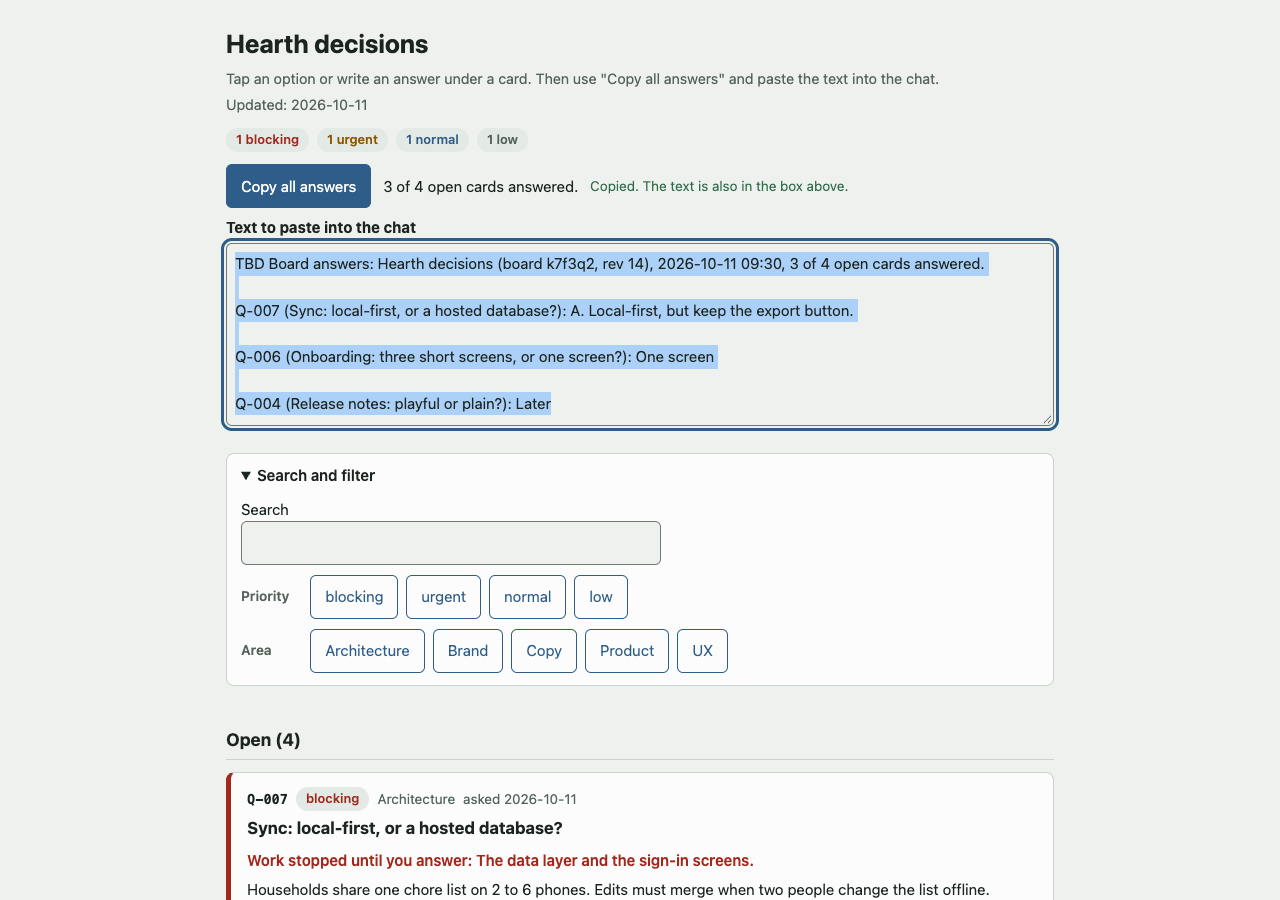
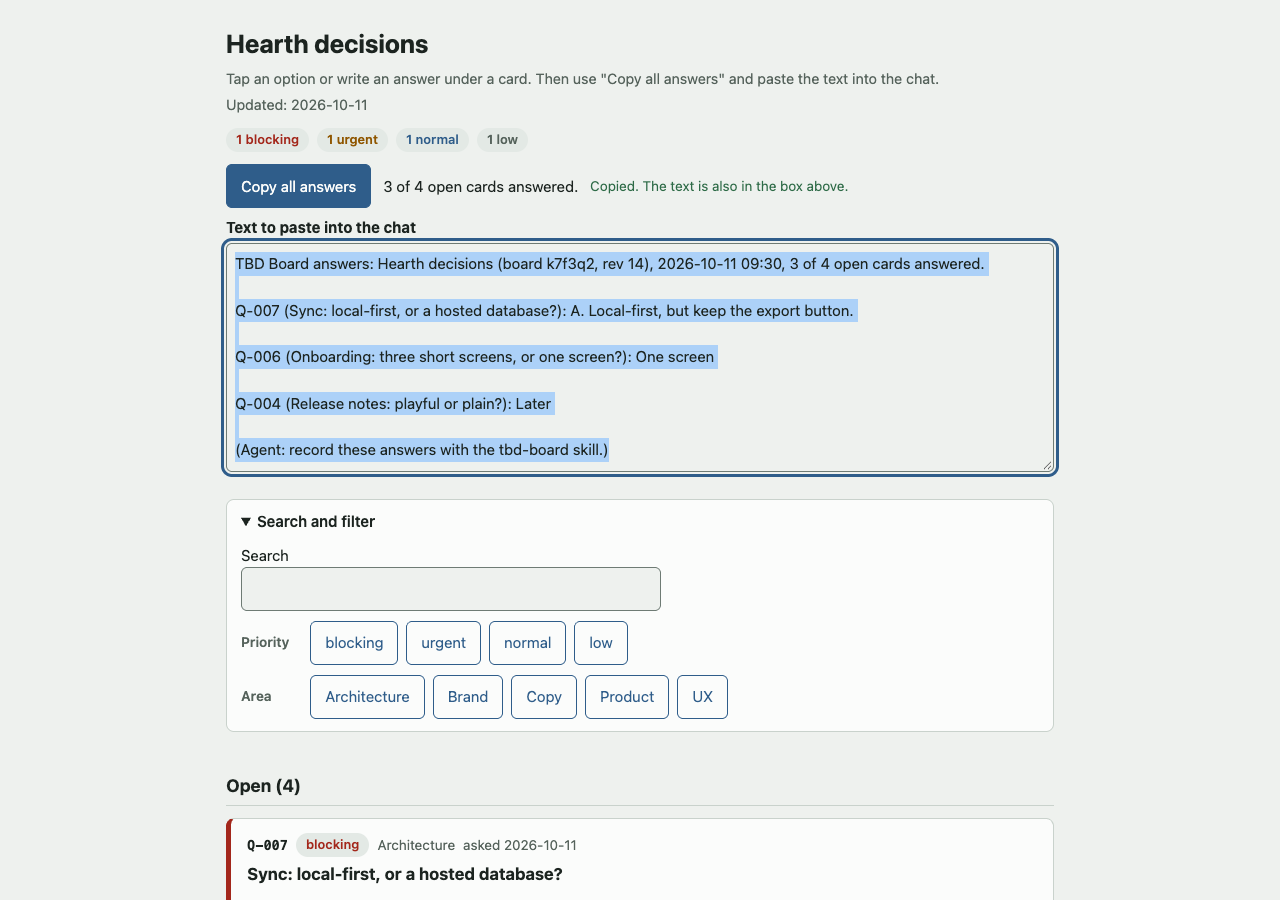
End the answer block with a line that names the skill
In a new Claude Code session, Haiku did not load the skill for a pasted
answer block and recorded nothing. With a closing line that names the
tbd-board skill, it recorded the answer and reported an unknown card ID.

- The board page adds "(Agent: record these answers with the tbd-board
  skill.)" as the last paragraph of each copied block.
- SKILL.md: write --reason only with a reason that the user gave.
- Record the Claude Code install tests (setup and paste) in the docs.

Changed region(s): [[0.1562, 0.4667, 0.8438, 0.7778], [0.1562, 0.8089, 0.7812, 0.9956]]

diff --git a/examples/hearth/board.html b/examples/hearth/board.html
@@ -420,12 +420,14 @@
       navigator.clipboard.writeText(t).then(() => { statusEl.textContent = done; }, () => {});
     }
   }
+  const AGENT_LINE = "(Agent: record these answers with the tbd-board skill.)";
   function copyAnswers(from, statusEl) {
     const d = new Date(), p = (n) => String(n).padStart(2, "0");
     const stamp = `${d.getFullYear()}-${p(d.getMonth() + 1)}-${p(d.getDate())} ${p(d.getHours())}:${p(d.getMinutes())}`;
     const given = from.filter(answerOf);
     const head = `TBD Board answers: ${title} (board ${boardId}, rev ${revision}), ${stamp}, ${answeredSentence()}`;
-    copyText(given.length ? [head, ...given.map((e) => `${e.q.id} (${e.q.title}): ${answerOf(e)}`)].join("\n\n") : "(no answers written yet)",
+    // The last line tells an agent that has not loaded the skill yet what to do with the paste.
+    copyText(given.length ? [head, ...given.map((e) => `${e.q.id} (${e.q.title}): ${answerOf(e)}`), AGENT_LINE].join("\n\n") : "(no answers written yet)",
       statusEl, given.length > 0);
   }
 

diff --git a/skills/tbd-board/assets/board-template.html b/skills/tbd-board/assets/board-template.html
@@ -228,12 +228,14 @@
       navigator.clipboard.writeText(t).then(() => { statusEl.textContent = done; }, () => {});
     }
   }
+  const AGENT_LINE = "(Agent: record these answers with the tbd-board skill.)";
   function copyAnswers(from, statusEl) {
     const d = new Date(), p = (n) => String(n).padStart(2, "0");
     const stamp = `${d.getFullYear()}-${p(d.getMonth() + 1)}-${p(d.getDate())} ${p(d.getHours())}:${p(d.getMinutes())}`;
     const given = from.filter(answerOf);
     const head = `TBD Board answers: ${title} (board ${boardId}, rev ${revision}), ${stamp}, ${answeredSentence()}`;
-    copyText(given.length ? [head, ...given.map((e) => `${e.q.id} (${e.q.title}): ${answerOf(e)}`)].join("\n\n") : "(no answers written yet)",
+    // The last line tells an agent that has not loaded the skill yet what to do with the paste.
+    copyText(given.length ? [head, ...given.map((e) => `${e.q.id} (${e.q.title}): ${answerOf(e)}`), AGENT_LINE].join("\n\n") : "(no answers written yet)",
       statusEl, given.length > 0);
   }
 

diff --git a/docs/install-tests.md b/docs/install-tests.md
@@ -4,7 +4,9 @@ Each test installed the skill from a clean local export of this repository (only
 
 | Agent | Version | Route | Prompt | Result | Date |
 | --- | --- | --- | --- | --- | --- |
-| Claude Code | 2.1.284 | `claude plugin marketplace add <local export>`, then `claude plugin install tbd-board@camerash` | none | Installed. `claude plugin details` lists the `tbd-board` skill (about 150 tokens always loaded, 2.8k when used). `claude plugin validate --strict` passes for both manifests. The prompt test did not run: the CLI login on the test machine had expired. | 2026-10-11 |
+| Claude Code | 2.1.284 | `claude plugin marketplace add <local export>`, then `claude plugin install tbd-board@camerash` | "Set up a decision board here." (Haiku) | Pass. The agent loaded the skill and ran `init`; `check` passes. `claude plugin validate --strict` passes for both manifests. | 2026-10-11 |
+| Claude Code | 2.1.284 | Same project | A pasted answer block: one answer with a condition, one unknown card ID (Sonnet) | Pass. The agent recorded D-001 with the condition and asked about the unknown ID. | 2026-10-11 |
+| Claude Code | 2.1.284 | Same project | The same paste test (Haiku) | First fail: Haiku did not load the skill for a paste in a new session, and recorded nothing. A reordered skill description did not help. Pass after the change: the answer block now ends with "(Agent: record these answers with the tbd-board skill.)". Haiku then recorded the answer and reported the unknown ID. | 2026-10-11 |
 | Codex CLI | 0.160.0 | `codex plugin marketplace add <local export>`, then `codex plugin add tbd-board@camerash` | "Set up a decision board here." | Pass. The agent loaded the skill, ran `init` and `check`, and asked about the project rules with a card. | 2026-10-11 |
 | Codex CLI | 0.160.0 | `npx skills@1.7.2 add <local export> -a codex -a cursor -a claude-code --copy -y` (project scope) | "Set up a TBD board for this project." | Pass. The skills CLI copied the skill to `.agents/skills/` and `.claude/skills/`; the agent used it. | 2026-10-11 |
 | Codex CLI | 0.160.0 | Same project, after the test above | A pasted answer block: one answer with a condition, one unknown card ID | Pass. The agent recorded D-001 with the condition, set the card to answered, did the work, and reported the unknown ID without a record. `check` passes. | 2026-10-11 |

diff --git a/README.md b/README.md
@@ -59,6 +59,8 @@ Q-007 (Sync: local-first, or a hosted database?): A. Local-first, but keep the e
 Q-006 (Onboarding: three short screens, or one screen?): One screen.
 
 Q-004 (Release notes: playful or plain?): Later
+
+(Agent: record these answers with the tbd-board skill.)
 ```
 
 ## Install
@@ -67,7 +69,7 @@ Pick **one** route per agent. Two routes install the skill two times.
 
 | Agent | Install | Tested |
 | --- | --- | --- |
-| **Claude Code** | `claude plugin marketplace add Camerash/tbd-board`<br>`claude plugin install tbd-board@camerash`<br>(or `/plugin marketplace add ...` and `/plugin install ...` in a session) | Installs; [details](docs/install-tests.md) |
+| **Claude Code** | `claude plugin marketplace add Camerash/tbd-board`<br>`claude plugin install tbd-board@camerash`<br>(or `/plugin marketplace add ...` and `/plugin install ...` in a session) | Yes |
 | **Codex** | `codex plugin marketplace add Camerash/tbd-board`<br>`codex plugin add tbd-board@camerash` | Yes |
 | **GitHub Copilot CLI** | `copilot plugin marketplace add Camerash/tbd-board`<br>`copilot plugin install tbd-board@camerash` | Not yet |
 | **VS Code (Copilot)** | Command Palette, **Chat: Install Plugin From Source**, then `https://github.com/Camerash/tbd-board` | Not yet |

diff --git a/skills/tbd-board/references/answer-format.md b/skills/tbd-board/references/answer-format.md
@@ -12,12 +12,15 @@ Q-007 (Sync: local-first, or a hosted database?): A. Local-first, but keep the e
 Q-006 (Onboarding: three short screens, or one screen?): One screen.
 
 Q-004 (Release notes: playful or plain?): Later
+
+(Agent: record these answers with the tbd-board skill.)
 ```
 
 - **Line 1, the header:** the board title, the board ID (`boardId`), the data revision (`revision`), the local time of the copy, and the progress (answered open cards of all open cards).
 - **Then one paragraph for each answered open card:** `<card ID> (<card title>): <answer>`. A blank line separates the cards. An answer can have line breaks, but no blank lines.
 - The order is the order of the Open section: blocking, urgent, normal, low, then by ID.
 - Cards with no answer are not in the block.
+- **The last line** tells an agent that has not loaded this skill what to do with the paste. It is not an answer.
 - "Copy this answer" on one card makes the same block with only that card.
 - A tap on an option puts the option label at the start of the answer. The user can add words after it.
 

diff --git a/skills/tbd-board/SKILL.md b/skills/tbd-board/SKILL.md
@@ -144,6 +144,8 @@ TBD Board answers: Hearth decisions (board k7f3q2, rev 14), 2026-10-11 14:05, 3 
 Q-007 (Sync: local-first, or a hosted database?): A. Local-first, but keep the export button.
 
 Q-004 (Release notes: playful or plain?): Later
+
+(Agent: record these answers with the tbd-board skill.)
 ```
 
 Do these steps for the full batch before you act:
@@ -169,7 +171,7 @@ python3 <skill folder>/scripts/board.py answer Q-007 --decision "Use local-first
 ```
 
 - Write the decision in full words, so that it is clear without the card. Do not write only "A". Keep the conditions of the user.
-- Add `--reason` when the user gave a reason.
+- Add `--reason` only with a reason that the user gave. Do not write a reason yourself.
 - For a reply to a decided-for-you entry, use its ID: `board.py answer A-013 --decision "..."`.
 - To change an earlier decision, add `--supersedes D-012`. The old entry stays in the log.
 - For a decision that the user gives in the chat without a card, add a card with `ask`, then record the decision with `answer`. The board then shows it too.
